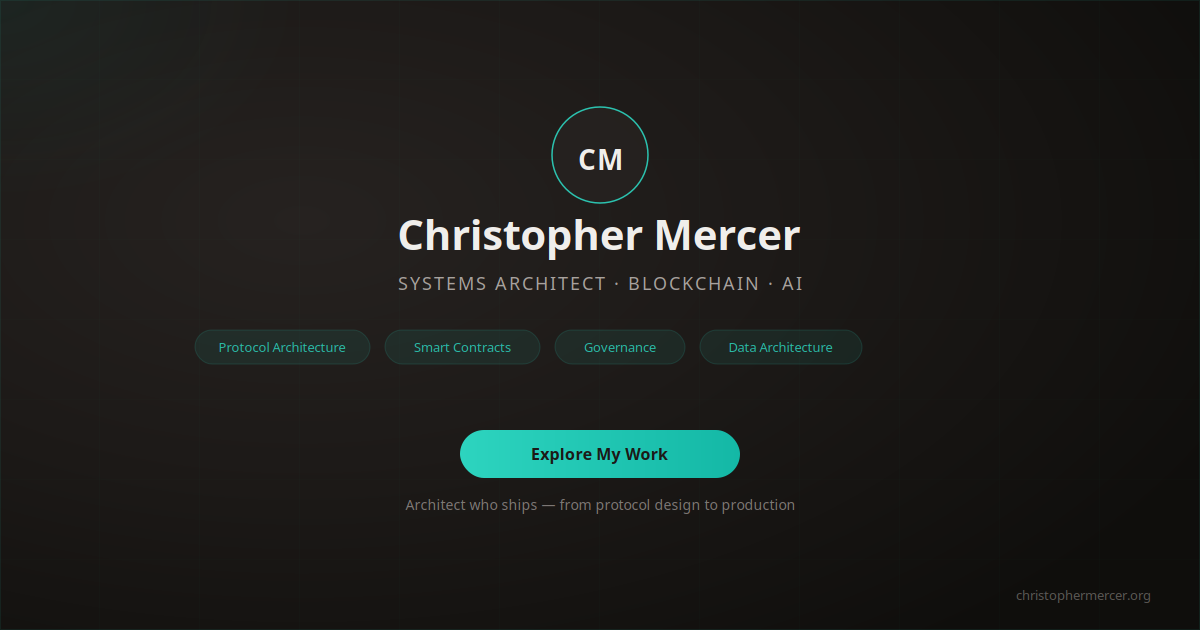
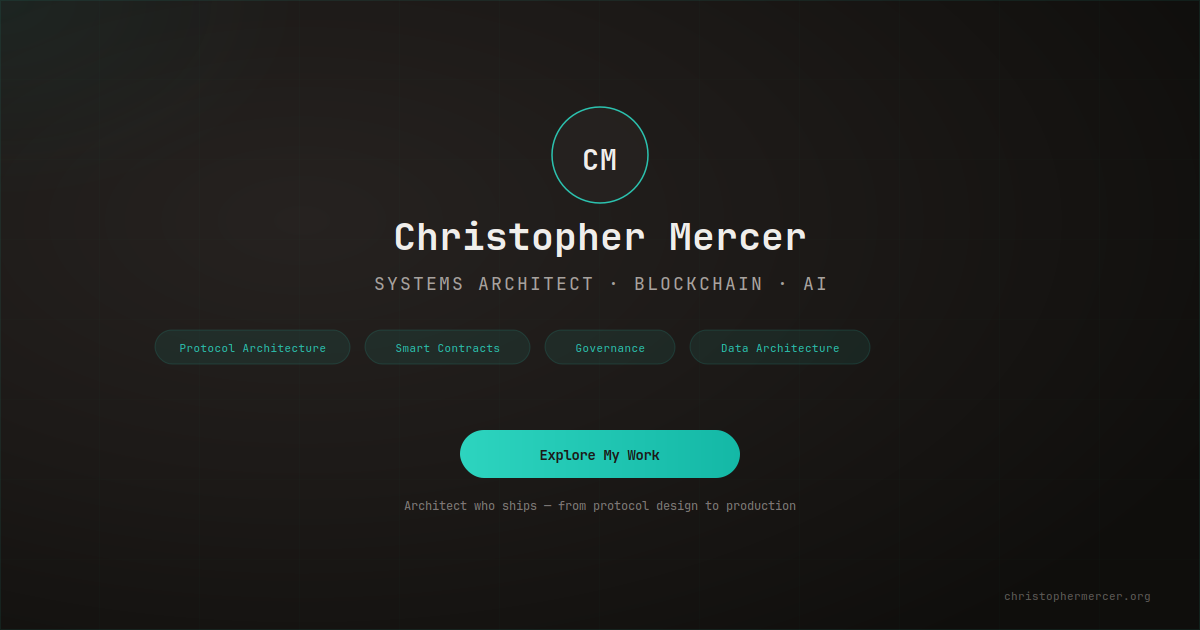
Switch to JetBrains Mono for terminal aesthetic
Replace Plus Jakarta Sans with JetBrains Mono across site and OG image.
Reduce font sizes ~10% to compensate for monospace width, remove negative
letter-spacing, tighten hero spacing for a more casual post feel.

diff --git a/index.html b/index.html
@@ -68,7 +68,7 @@
 
   <link rel="preconnect" href="https://fonts.googleapis.com">
   <link rel="preconnect" href="https://fonts.gstatic.com" crossorigin>
-  <link href="https://fonts.googleapis.com/css2?family=Plus+Jakarta+Sans:wght@400;500;600;700&display=swap" rel="stylesheet">
+  <link href="https://fonts.googleapis.com/css2?family=JetBrains+Mono:wght@400;500;600;700&display=swap" rel="stylesheet">
 
   <style>
     /* ── Light theme (default) ── */
@@ -137,7 +137,7 @@
     * { margin: 0; padding: 0; box-sizing: border-box; }
 
     body {
-      font-family: 'Plus Jakarta Sans', -apple-system, BlinkMacSystemFont, sans-serif;
+      font-family: 'JetBrains Mono', 'Courier New', monospace;
       background-color: var(--bg);
       color: var(--text);
       min-height: 100vh;
@@ -218,14 +218,14 @@
 
     /* ── Hero Header (social-media style) ── */
     .hero {
-      padding: 3rem 3rem 2rem;
+      padding: 2.5rem 3rem 2rem;
     }
 
     .hero-header {
       display: flex;
       align-items: flex-start;
-      gap: 1.75rem;
-      margin-bottom: 1.5rem;
+      gap: 1.5rem;
+      margin-bottom: 1.25rem;
     }
 
     .avatar {
@@ -244,32 +244,31 @@
     }
 
     .name {
-      font-size: 1.625rem;
+      font-size: 1.5rem;
       font-weight: 700;
       color: var(--text);
-      letter-spacing: -0.5px;
       margin-bottom: 0.25rem;
       line-height: 1.2;
       transition: color 0.2s ease;
     }
 
     .role {
-      font-size: 0.875rem;
+      font-size: 0.8125rem;
       font-weight: 500;
       color: var(--text-muted);
-      letter-spacing: 0.5px;
+      letter-spacing: 1px;
       margin-bottom: 1rem;
       transition: color 0.2s ease;
     }
 
     .bio {
-      font-size: 0.9375rem;
-      line-height: 1.75;
+      font-size: 0.875rem;
+      line-height: 1.7;
       color: var(--text-secondary);
       transition: color 0.2s ease;
     }
 
-    .bio + .bio { margin-top: 0.75rem; }
+    .bio + .bio { margin-top: 0.625rem; }
 
     .tags {
       display: flex;
@@ -278,7 +277,7 @@
     }
 
     .tag {
-      font-size: 0.8125rem;
+      font-size: 0.75rem;
       font-weight: 500;
       color: var(--tag-text);
       background-color: var(--tag-bg);
@@ -292,11 +291,10 @@
 
     /* ── Content Sections ── */
     .section-title {
-      font-size: 1.0625rem;
+      font-size: 1rem;
       font-weight: 600;
       color: var(--text);
       margin-bottom: 1.25rem;
-      letter-spacing: -0.25px;
       transition: color 0.2s ease;
     }
 
@@ -310,7 +308,7 @@
     }
 
     .content-block-title {
-      font-size: 0.9375rem;
+      font-size: 0.875rem;
       font-weight: 600;
       color: var(--text);
       margin-bottom: 0.5rem;
@@ -318,15 +316,15 @@
     }
 
     .content-block-text {
-      font-size: 0.9375rem;
-      line-height: 1.75;
+      font-size: 0.875rem;
+      line-height: 1.7;
       color: var(--text-secondary);
       transition: color 0.2s ease;
     }
 
     .methodology-text {
-      font-size: 0.9375rem;
-      line-height: 1.75;
+      font-size: 0.875rem;
+      line-height: 1.7;
       color: var(--text-secondary);
       transition: color 0.2s ease;
     }
@@ -341,7 +339,7 @@
       background: var(--accent);
       color: var(--accent-text);
       font-family: inherit;
-      font-size: 0.9375rem;
+      font-size: 0.875rem;
       font-weight: 600;
       text-decoration: none;
       padding: 0.75rem 2rem;
@@ -364,7 +362,7 @@
     }
 
     .secondary-links a {
-      font-size: 0.875rem;
+      font-size: 0.8125rem;
       font-weight: 500;
       color: var(--text-muted);
       text-decoration: none;
@@ -379,7 +377,7 @@
     .footer {
       margin-top: 2rem;
       margin-bottom: auto;
-      font-size: 0.6875rem;
+      font-size: 0.625rem;
       color: var(--text-muted);
       transition: color 0.2s ease;
     }
